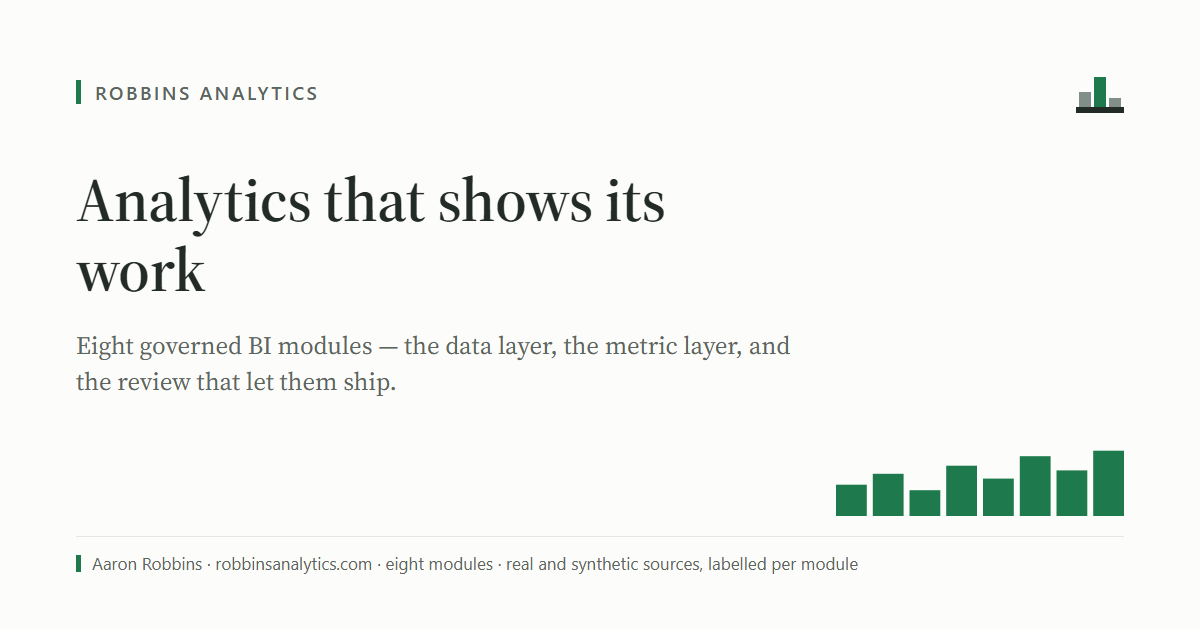
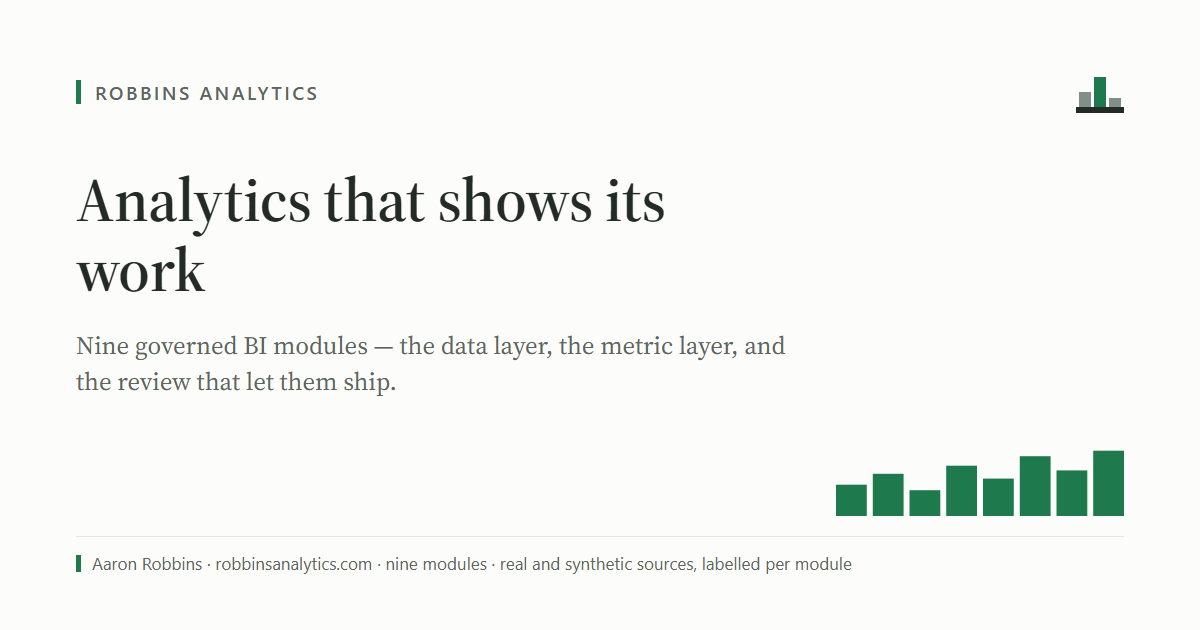
Surface Build by Build: case study, navbar, home teaser, OG card
Build by Build is the portfolio walk, not a module, so it gets a case
study and the top entry in the Projects menu, and deliberately no row in
the family page's builds table and no home page card.

The home page's portfolio section shrinks to its first sentence and a
link to the case study. The hero drops "Proof is the Point" so "Trust
What You Can Test" stands alone; the .hero-motto wrapper stays because
the sub inherits its serif from it.

The thumbnail generator gains the build-by-build card, and the
portfolio card now says nine modules, the count Build by Build's data
carries. CLAUDE.md's OG-card count moves to fourteen so
check_references passes; the two regenerated PNGs are committed per the
Revenue Assurance precedent.

The visual regression check is expected to fail on this push: index
moved at every width. Baselines follow in a second push, regenerated on
the runner.

Changed region(s): [[0.0617, 0.5127, 0.6783, 0.573], [0.3083, 0.8746, 0.7092, 0.9048]]

diff --git a/tools/build_thumbs.py b/tools/build_thumbs.py
@@ -39,9 +39,19 @@ C = {
 
 # Rule 2.3.1 — fixed slots, never re-dealt. A module keeps its hue everywhere.
 MODULES = [
-    dict(slug="portfolio", data="eight modules · real and synthetic sources, labelled per module", kicker="Robbins Analytics", title="Analytics that shows its work",
-         line="Eight governed BI modules — the data layer, the metric layer, and the review that let them ship.",
+    dict(slug="portfolio", data="nine modules · real and synthetic sources, labelled per module", kicker="Robbins Analytics", title="Analytics that shows its work",
+         line="Nine governed BI modules — the data layer, the metric layer, and the review that let them ship.",
          accent="evergreen", motif="bars", landing=True),
+    # The portfolio walk, not a module: it has no data of its own and reads the
+    # nine module repositories read-only. Evergreen because the page's own marks
+    # are Evergreen and 2.3.1 binds the hue to the piece wherever it appears;
+    # the portfolio card above is the slot's co-tenant on the same hue, and the
+    # two never appear adjacent because this piece has no home page card at
+    # all. "bars" because the page's one chart is a presence matrix whose marks
+    # thicken down the rows.
+    dict(slug="build-by-build", data="nine module repositories, read read-only · inventory frozen 2026-09-16", kicker="Cascadia Portfolio", title="Build by Build",
+         line="Two ways to check a number at build one. Fourteen had appeared by build nine.",
+         accent="evergreen", motif="bars"),
     # Lupine, which Pharmacy is the only other tenant of — different domain,
     # so the two cards do not appear adjacent. The steps motif echoes the
     # module's own decomposition chart.

diff --git a/CLAUDE.md b/CLAUDE.md
@@ -63,7 +63,7 @@ another process is running, delete that file and retry. Nothing is wrong.
 address still resolves and redirects, but must not appear in the source.
 
 **Thumbnails are generated, never edited.** `tools/build_thumbs.py` produces all
-thirteen OG cards in `assets/` from the `MODULES` list at the top of that file. To
+fourteen OG cards in `assets/` from the `MODULES` list at the top of that file. To
 change a card, change the script. CI regenerates them on every build, so hand-
 edited images are overwritten. That count is asserted in CI by
 `tools/check_references.py` — it said "eight" for two modules longer than it was
